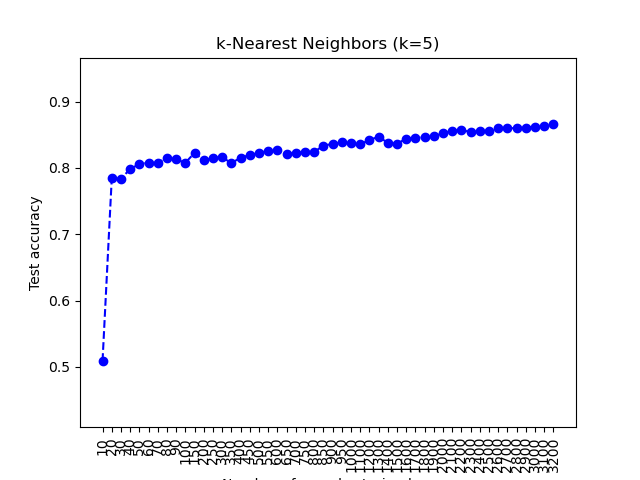
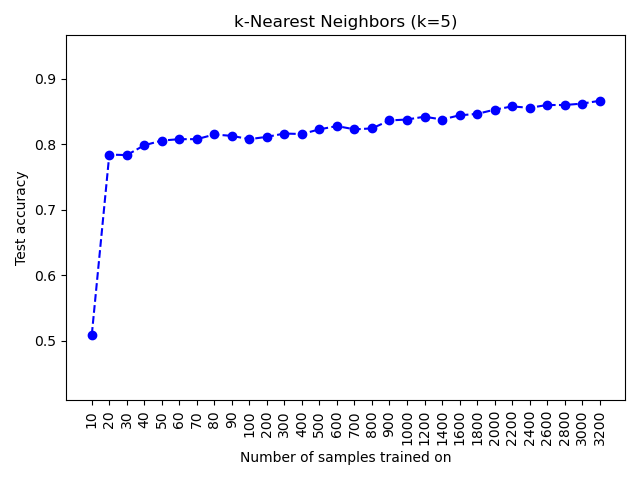
simple classifiers

diff --git a/transfer_learning.py b/transfer_learning.py
@@ -25,6 +25,7 @@ def save_accuracy_plot(accuracies, n_samples, method):
     plt.xticks(xi, n_samples, rotation=90)
     plt.title(method)
     #plt.legend()
+    plt.tight_layout()
     plt.savefig("accuracy_" + method + ".png")
 
 if __name__ == "__main__":
@@ -44,7 +45,7 @@ if __name__ == "__main__":
     svc_accuracies = []
     linear_accuracies = []
     knn_accuracies = []
-    sample_range = chain(range(10, 100, 10), range(100, 1000, 50), range(1000, len(train), 100))
+    sample_range = chain(range(10, 100, 10), range(100, 1000, 100), range(1000, len(train), 200))
     for n in tqdm(list(sample_range)):
         X_train = train.iloc[:n, 2:]
         y_train = train.loc[:, "label_idx"].iloc[:n]
